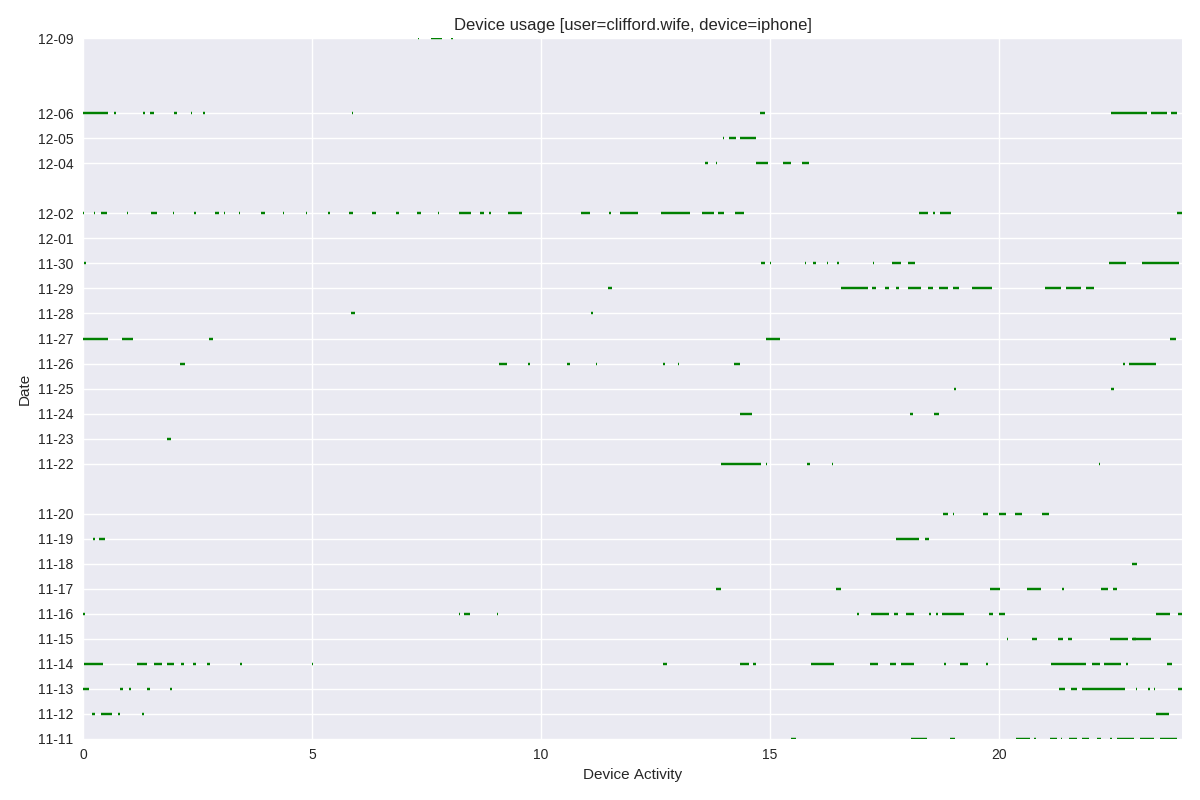
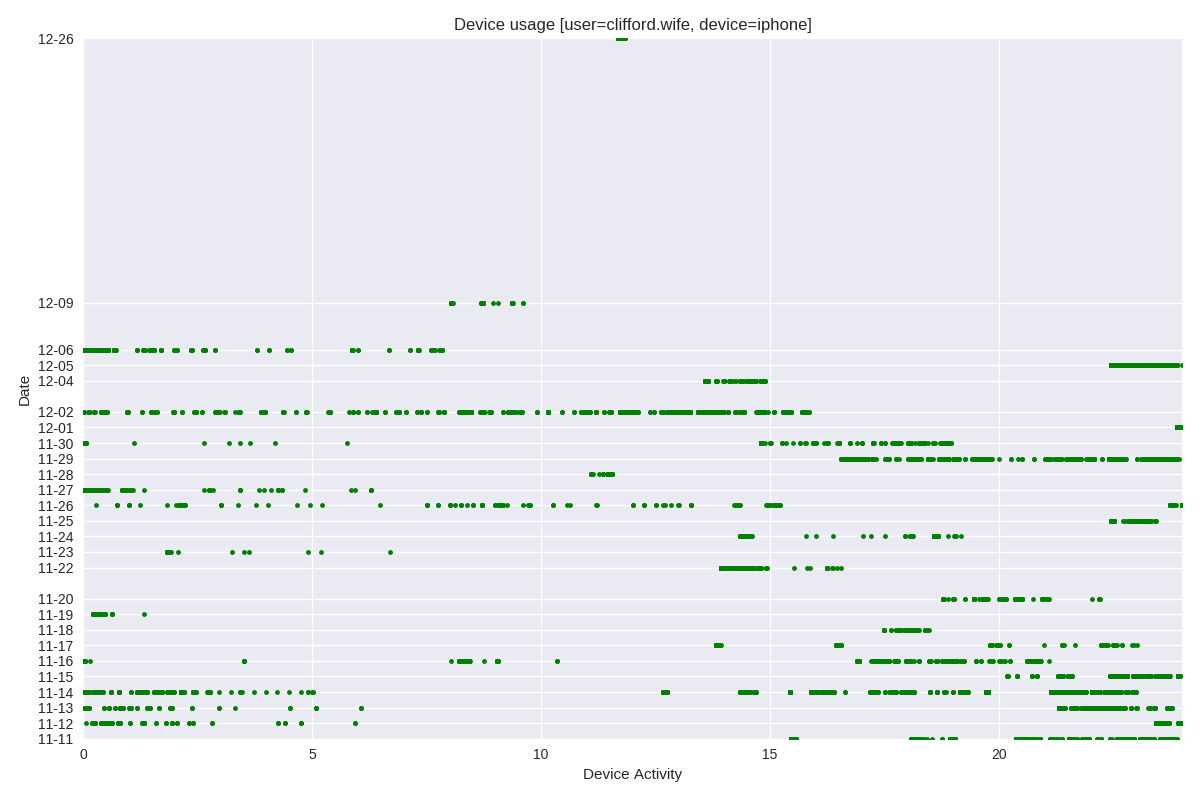
ploting filtered dns and http

diff --git a/inter_event_time_analysis.py b/inter_event_time_analysis.py
@@ -20,6 +20,9 @@ from model.HttpReq import HttpReq
 from model.DnsReq import DnsReq
 from model.user_devices import user_devices;
 
+from blacklist import create_blacklist_dict
+from blacklist import is_in_blacklist
+
 from sqlalchemy import create_engine, text, func
 from sqlalchemy.orm import sessionmaker
 from sqlalchemy.pool import NullPool
@@ -41,6 +44,8 @@ users = ses.query(User)
 
 def get_traces():
     traces = defaultdict(list)
+    blacklist = create_blacklist_dict()
+
     for user in users:
         print ('user : ' + user.username)
 
@@ -52,26 +57,27 @@ def get_traces():
         for d in user.devices:
             devs[d.id] = d.platform
     
-        #sqlq = contains_blacklist(0)
-        url = '\'%ad4.liverail.com%\''
-        sqlq = get_inter_event_query(url)
+        sqlq = contains_blacklist(0)
+        #url = '\'%ad4.liverail.com%\''
+        #sqlq = get_inter_event_query(url)
         
         sqlq_flow = """SELECT startts, endts FROM flows WHERE devid = :d_id"""
         for elem_id in devids:
+            idt = user.username+'.'+devs[int(elem_id)]
+            if user.username != 'clifford.wife':
+                continue
             print elem_id
             iat = []
             #traces = []
             for row in ses.execute(text(sqlq).bindparams(d_id = elem_id)):
-                if (row[1]==None):
+                if (row[2]==None):
                     continue
-                iat.append((row[0]-row[1]).total_seconds())
-                traces[user.username+'.'+devs[int(elem_id)]].append(row[0])
-
-                #if (row[0]-row[1]).total_seconds() > 60*60*2:
-                    #print 'sleep'
-                    #print row[1]
-                    #print 'wake up'
-                    #print row[0]
+                iat.append((row[1]-row[2]).total_seconds())
+                if row[0]:
+                    if not (is_in_blacklist(row[0], blacklist)):
+                        traces[idt].append(row[1])
+                else:
+                    traces[idt].append(row[1])
 
             flow_beg = []
             flow_end = []
@@ -79,16 +85,16 @@ def get_traces():
                 flow_beg.append(row[0])
                 flow_end.append(row[1])
             
-            if iat:
-                plot_cdf_interval_times(iat, user.username, devs[int(elem_id)], 'figs_CDF', url)
+            #if iat:
+            #    plot_cdf_interval_times(iat, user.username, devs[int(elem_id)], 'figs_CDF', url)
             
             #if flow_beg:
                 #plot_traces(traces[user.username+'.'+devs[int(elem_id)]], flow_beg, flow_end, user, devs, elem_id)
             
-            #if traces:
+            if traces[idt] and user.username == 'clifford.wife':
                 #mix_beg, mix_end = make_block_usage(traces, 60*5)
-                #plot_traces([], mix_beg, mix_end, user, devs, elem_id)
-
+                #plot_traces([], mix_beg, mix_end, user.username, devs[int(elem_id)])
+                plot_traces(traces[idt], [], [], user.username, devs[int(elem_id)])
 
     return traces
 def make_block_usage(traces, time_itv):
@@ -110,7 +116,7 @@ def make_block_usage(traces, time_itv):
 
     return mix_beg, mix_end
 
-def plot_traces(traces, flow_beg, flow_end, user, devs, elem_id): 
+def plot_traces(traces, flow_beg, flow_end, username, platform): 
 
     fig, ax = plt.subplots(1, 1, figsize=(12, 8))
     x = []
@@ -150,10 +156,10 @@ def plot_traces(traces, flow_beg, flow_end, user, devs, elem_id):
     hfmt = dates.DateFormatter('%m-%d')
     ax.yaxis.set_major_formatter(hfmt)
     
-    ax.hlines(y_flow, x_beg, x_end, 'g')
-    #ax.plot(x,y, '.g')
+    #ax.hlines(y_flow, x_beg, x_end, 'g')
+    ax.plot(x,y, '.g')
     
-    ax.set_title('Device usage [user=%s, device=%s]'%(user.username, devs[int(elem_id)]))
+    ax.set_title('Device usage [user=%s, device=%s]'%(username, platform))
     ax.set_ylabel('Date')
     ax.set_yticks(list(set(y_flow).union(y_label)))
     
@@ -168,7 +174,7 @@ def plot_traces(traces, flow_beg, flow_end, user, devs, elem_id):
     ax.set_xlim(0,24)
 
     plt.tight_layout()
-    fig.savefig('figs_device_constant_usage/%s-%s.png' % (user.username, devs[int(elem_id)]))
+    fig.savefig('figs_device_constant_usage/%s-%s.png' % (username, platform))
     plt.close(fig)
 
 
@@ -231,16 +237,23 @@ def contains_blacklist (var):
         AS events;"""
 
     #doesnt contain blacklist
-    return """SELECT ts,lag(ts) OVER (ORDER BY ts) FROM \
-    (SELECT ts FROM dnsreqs WHERE devid =  :d_id AND matches_blacklist = 'f' UNION ALL \
-    SELECT ts FROM httpreqs2 WHERE devid = :d_id AND matches_urlblacklist = 'f' AND user_url = 't') \
+    #return """SELECT ts,lag(ts) OVER (ORDER BY ts) FROM \
+    #(SELECT ts FROM dnsreqs WHERE devid =  :d_id AND matches_blacklist = 'f' UNION ALL \
+    #SELECT ts FROM httpreqs2 WHERE devid = :d_id AND matches_urlblacklist = 'f' AND user_url = 't') \
+    #AS events;"""
+
+    return """SELECT req_url_host,ts,lag(ts) OVER (ORDER BY ts) FROM \
+    (SELECT ts, null as req_url_host FROM dnsreqs WHERE devid = :d_id AND matches_blacklist = 'f' UNION ALL \
+    SELECT ts, req_url_host FROM httpreqs2 WHERE devid = :d_id AND matches_urlblacklist = 'f' AND user_url = 't') \
     AS events;"""
+
+
 
 def get_inter_event_query(url):
 
     return ("""SELECT ts, lag(ts) OVER (ORDER BY ts) FROM httpreqs WHERE \
     devid = :d_id AND req_url LIKE %s ORDER BY ts""")%(url)
-    
+
 
 if __name__ == "__main__":
     get_traces()

diff --git a/inter_event_time_by_url_analysis.py b/inter_event_time_by_url_analysis.py
@@ -1,0 +1,151 @@
+import numpy as np
+import scipy as sci
+import pandas as pd
+
+import numpy as np
+import seaborn as sns
+import matplotlib.pyplot as plt
+from matplotlib import dates
+
+from bokeh.plotting import figure, show, output_notebook
+from bokeh.charts import *
+
+from collections import defaultdict
+from datetime import datetime, timedelta
+
+from model.Base import Base
+from model.User import User
+from model.Device import Device
+from model.HttpReq import HttpReq
+from model.DnsReq import DnsReq
+from model.user_devices import user_devices;
+
+from blacklist import create_blacklist_dict
+from blacklist import is_in_blacklist
+
+from sqlalchemy import create_engine, text, func
+from sqlalchemy.orm import sessionmaker
+from sqlalchemy.pool import NullPool
+
+import datautils
+
+from IPython.display import display
+
+output_notebook()
+
+DB='postgresql+psycopg2:///ucnstudy'
+
+engine = create_engine(DB, echo=False, poolclass=NullPool)
+Base.metadata.bind = engine
+Session = sessionmaker(bind=engine)
+
+ses = Session()
+users = ses.query(User)
+
+def get_traces():
+    traces = defaultdict(list)
+    blacklist = create_blacklist_dict()
+
+    for user in users:
+        print ('user : ' + user.username)
+
+        if user.username != 'clifford.wife':
+            continue
+
+        devids = []
+        for d in user.devices:
+            devids.append(str(d.id))
+
+        devs = {}
+        for d in user.devices:
+            devs[d.id] = d.platform
+
+        sql_url = """SELECT DISTINCT req_url_host FROM \
+        httpreqs2 WHERE devid =:d_id AND matches_urlblacklist = 'f';"""
+
+        sqlq = """SELECT ts, lag(ts) OVER (ORDER BY ts) FROM httpreqs2 \
+        WHERE devid =:d_id AND req_url_host =:url AND matches_urlblacklist = 'f'"""
+        
+        sql_dns = """SELECT ts, lag(ts) OVER (ORDER BY ts) FROM dnsreqs \
+        WHERE devid =:d_id AND matches_blacklist = 'f'"""
+
+        for elem_id in devids: 
+            valid_url_list = []
+            traces_dict = defaultdict(list)
+            cdf_dist = defaultdict(int)
+            total_url_traces = 0
+            for row in ses.execute(text(sql_url).bindparams(d_id = elem_id)):
+                if row[0] and not (is_in_blacklist(row[0], blacklist)):
+                    valid_url_list.append(row[0])
+
+            valid_url_list.append('dns')
+
+            for valid_url in valid_url_list:
+                #get inter event times per url
+                for row in ses.execute(text(sqlq).bindparams(d_id = elem_id, url = valid_url)):
+                    total_url_traces += 1
+                    if row[1] == None:
+                        continue
+                    iat = (row[0]-row[1]).total_seconds()
+                    if not cdf_dist[iat]:
+                        cdf_dist[iat] = 1
+                    else:
+                        cdf_dist[iat] += 1
+
+                for row in ses.execute(text(sqlq).bindparams(d_id = elem_id, url = valid_url)):
+                    if row[1] == None:
+                        continue
+                    iat = (row[0]-row[1]).total_seconds()
+                    #filter by > 1s and percentage of iat 
+                    if iat > 1 and (cdf_dist[iat]/float(total_url_traces) < 0.10):
+                        traces_dict[valid_url].append(row[0])
+
+                        
+            #add dnsreqs
+            for row in ses.execute(text(sql_dns).bindparams(d_id = elem_id)):
+                if row[1] == None:
+                    continue
+                if (row[0]-row[1]).total_seconds() > 1:
+                    traces_dict['dns'].append(row[0])
+
+            if user.username == 'clifford.wife':
+                if elem_id == str(23):
+                    print elem_id
+                    for valid_url in valid_url_list:
+                        for timst in traces_dict[valid_url]:
+                            if timst.day == 14 and timst.hour < 5 and valid_url != 'dns':
+                                #print timst
+                                print valid_url
+
+            if traces_dict:
+                plot_traces(traces_dict, valid_url_list, user.username, devs[int(elem_id)])
+
+def plot_traces(traces_dict, url_list, username, platform):
+    x = []
+    y = []
+    fig, ax = plt.subplots(1, 1, figsize=(12, 8))
+    for url in url_list:
+        for timst in traces_dict[url]:
+            x.append(timst.hour+timst.minute/60.0+timst.second/3600.0)
+            y.append(timst.date())
+
+    y_label = list(set(y))
+    hfmt = dates.DateFormatter('%m-%d')
+    ax.yaxis.set_major_formatter(hfmt)
+
+    ax.plot(x,y, ',g')
+
+    ax.set_title('Device usage [user=%s, device=%s]'%(username, platform))
+    ax.set_ylabel('Date')
+    ax.set_yticks(y_label)
+
+    ax.set_xlabel('Device Activity')
+    ax.set_xlim(0,24)
+
+    plt.tight_layout()
+    fig.savefig('figs_device_constant_usage_filtered/%s-%s.png' % (username, platform))
+    plt.close(fig)
+
+                        
+if __name__ == '__main__':
+    get_traces()

diff --git a/url_analysis.py b/url_analysis.py
@@ -11,6 +11,9 @@ from model.Device import Device
 from model.HttpReq import HttpReq
 from model.User import User
 
+from blacklist import create_blacklist_dict
+from blacklist import is_in_blacklist
+
 from sqlalchemy import create_engine, text, func
 from sqlalchemy.orm import sessionmaker
 from sqlalchemy.pool import NullPool
@@ -43,14 +46,31 @@ def get_urls():
         sqlq = """SELECT req_url_host FROM httpreqs2 \
         WHERE devid = :d_id AND matches_urlblacklist = 'f'"""
 
+        #extra filter of blacklist
+        blacklist = create_blacklist_dict()
+
         for dev_elem in devids:
             print devs[int(dev_elem)]
             url_host = defaultdict(int)
+            detected_blacklist = defaultdict(list)
+            if user.username != 'clifford.wife':
+                break
             for row in ses.execute(text(sqlq).bindparams(d_id = dev_elem)):
-                if row[0] not in url_host:
-                    url_host[row[0]] = 1
-                else:
-                    url_host[row[0]] += 1
+                print 'lala'
+                if (not row[0]) or (row[0] in detected_blacklist[row[0][0]]):
+                    print 'entrou'
+                    continue
+
+                if not is_in_blacklist(row[0], blacklist):
+                    print 'lajdid'
+                    if row[0] not in url_host:
+                        url_host[row[0]] = 1
+                    else:
+                        url_host[row[0]] += 1
+                else: 
+                    if row[0] not in detected_blacklist:
+                        detected_blacklist[row[0][0]].append(row[0])
+                    
 
             if url_host and user.username == 'clifford.wife':
                 plot_urls(url_host, user.username, devs[int(dev_elem)])
@@ -80,7 +100,7 @@ def plot_urls(url, username, platform):
     plt.xlabel('Url')
     plt.bar(X, sorted_values, align='center', width=0.5)
     plt.xticks(X, sorted_keys, rotation = 90)
-    plt.savefig('figs_url/%s-%s.png'%(username, platform))
+    plt.savefig('figs_histogram_url/%s-%s.png'%(username, platform))
     plt.close()
 
 
